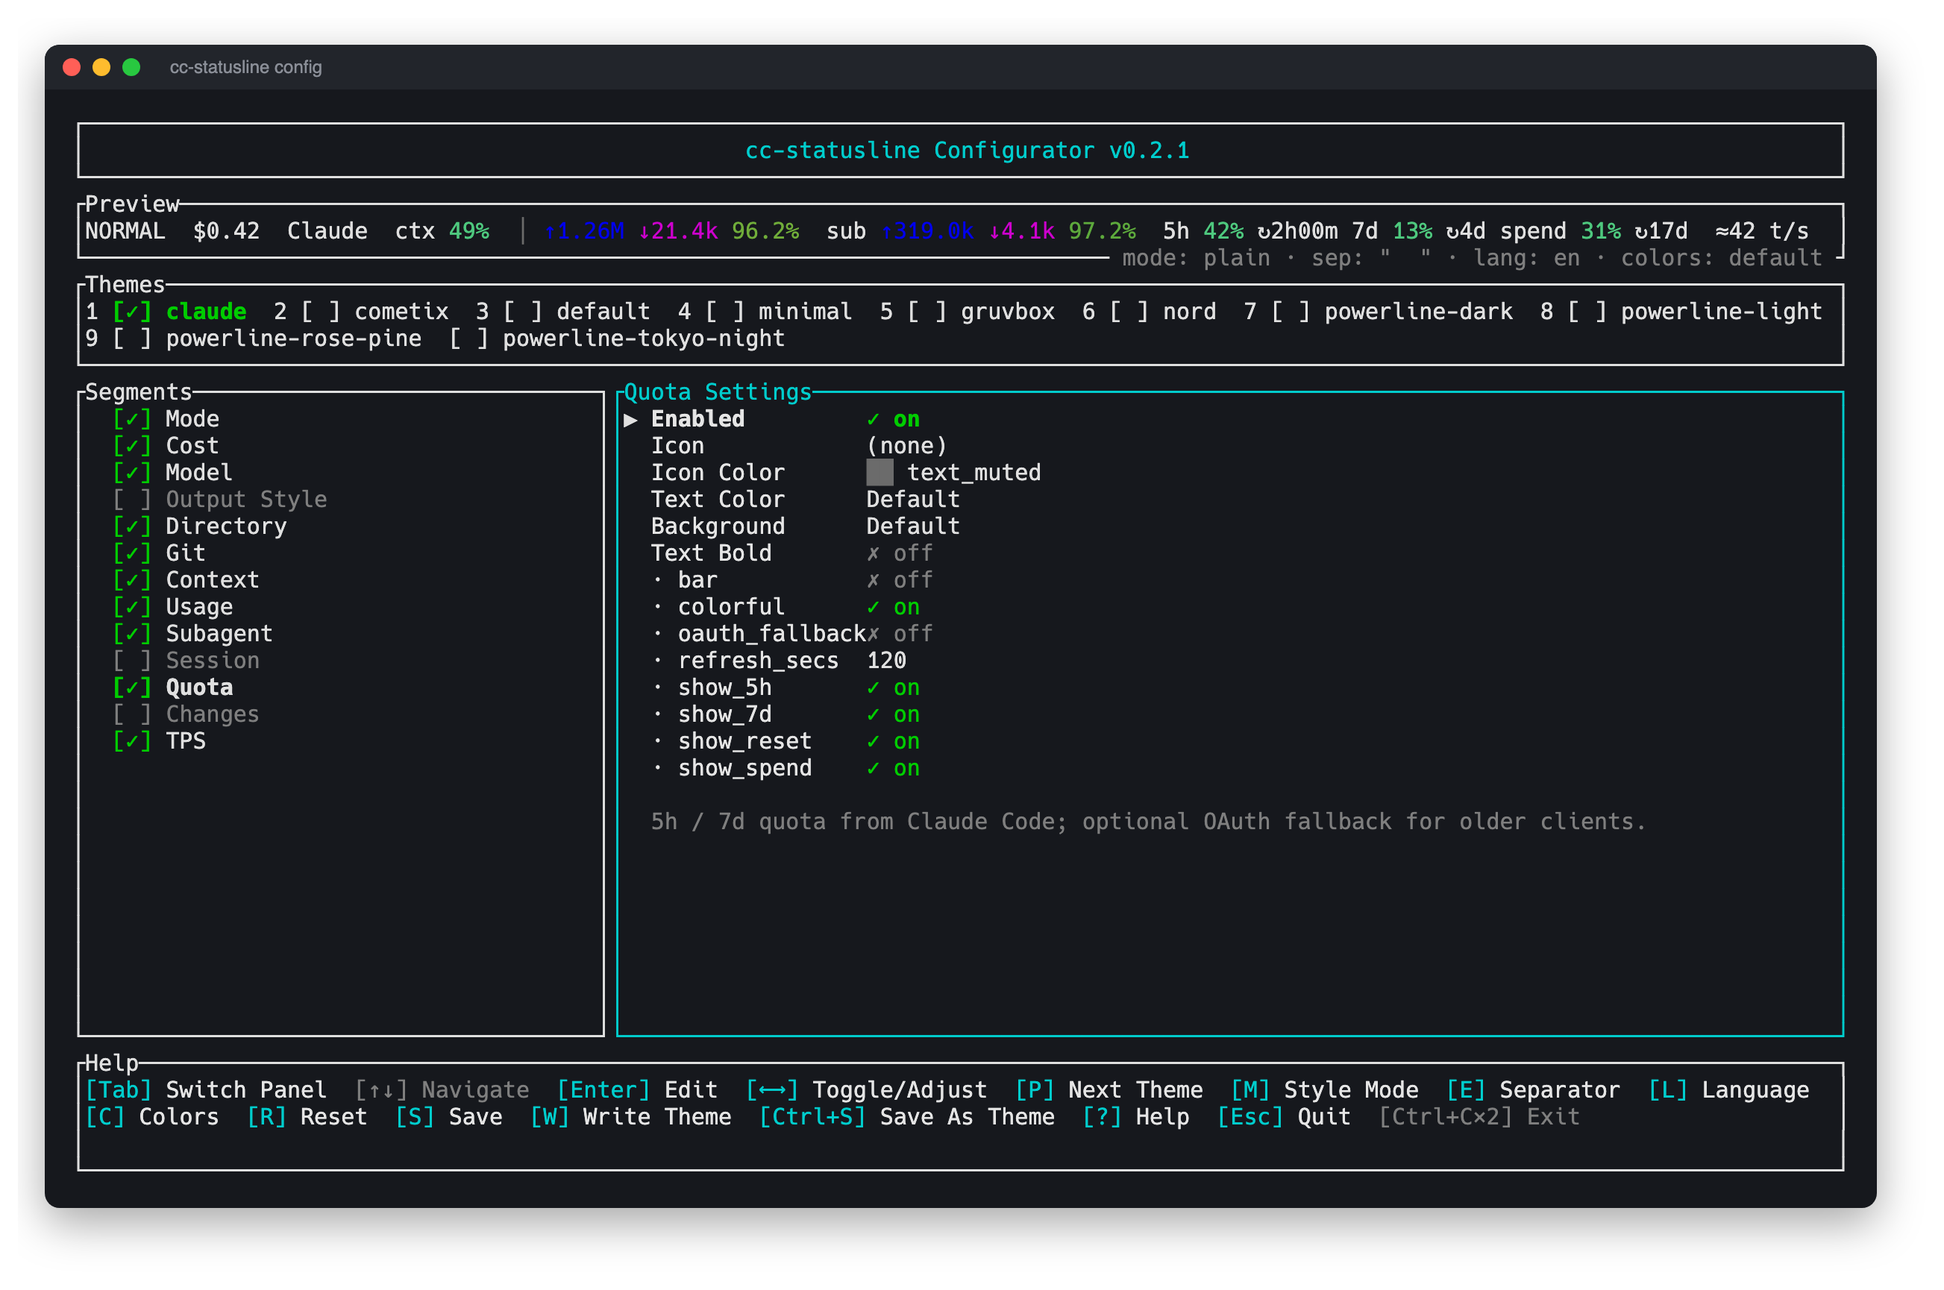
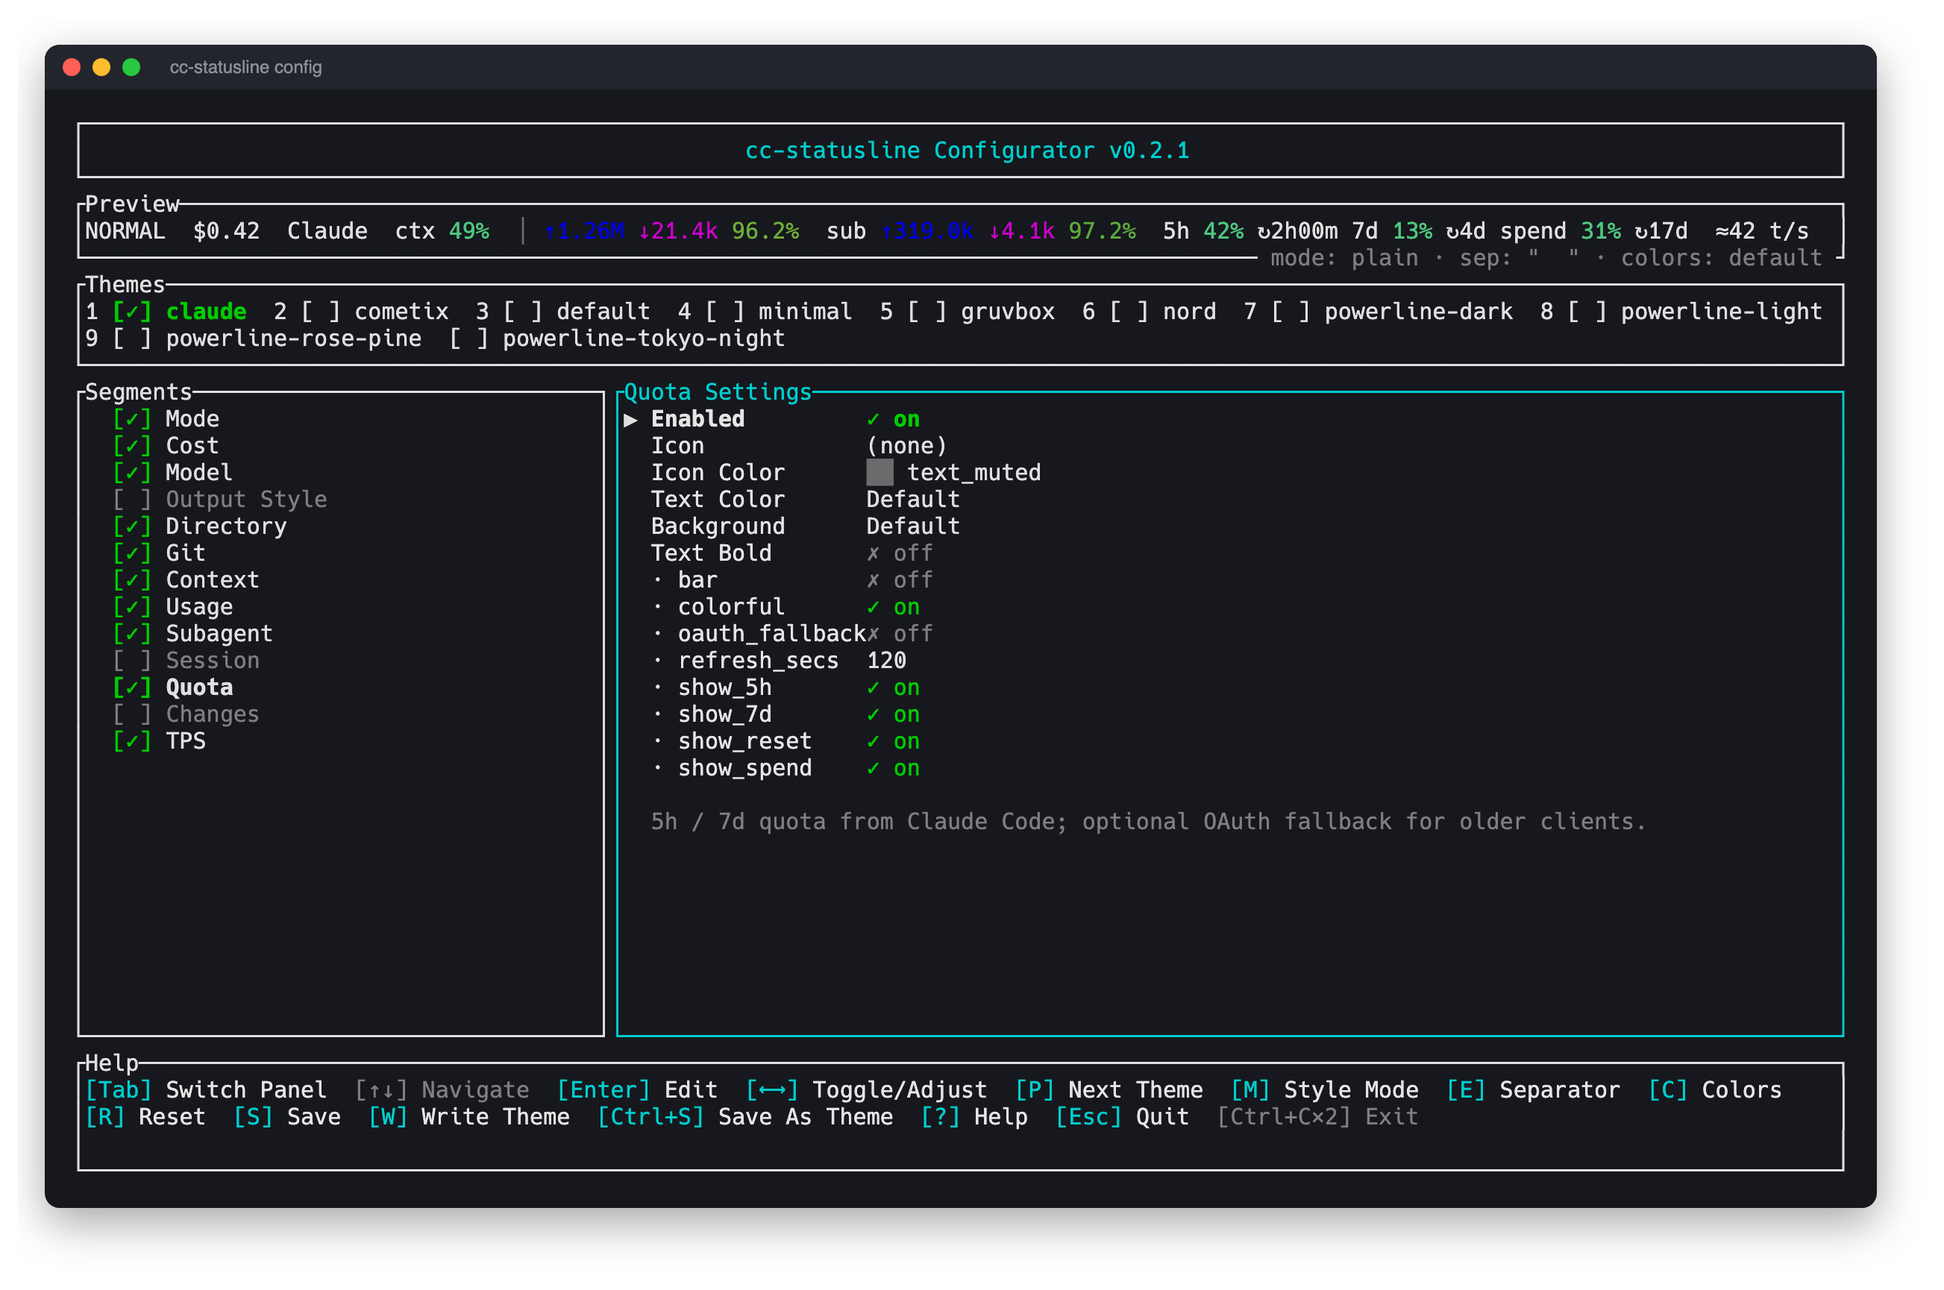
refactor: drop the zh status line language
Labels are English only; the Chinese ones ran long. Old configs with
style.lang still load, the key is ignored.

diff --git a/src/render.rs b/src/render.rs
@@ -8,7 +8,7 @@
 //! would leave the rest of the line in the terminal's default foreground.
 
 use crate::appearance::{Models, Palette, Rgb};
-use crate::config::{AnsiColor, Config, Lang, SegmentConfig, SegmentId, StyleMode};
+use crate::config::{AnsiColor, Config, SegmentConfig, SegmentId, StyleMode};
 use crate::payload::Payload;
 use crate::probe::{GitStatus, PullRequest};
 use crate::session::{SessionStats, Usage};
@@ -73,10 +73,6 @@ fn rgb(Rgb(r, g, b): Rgb) -> AnsiColor {
 }
 
 impl Ctx {
-    fn zh(&self) -> bool {
-        self.config.style.lang == Lang::Zh
-    }
-
     fn sgr(&self, color: &AnsiColor, bg: bool) -> Option<String> {
         self.color.then(|| color.sgr(&self.palette, bg)).flatten()
     }
@@ -221,7 +217,6 @@ fn hyperlink(text: &str, url: &str) -> String {
 /// trims labels and units for narrow terminals.
 fn segment(ctx: &Ctx, seg: &SegmentConfig, compact: bool) -> Option<Vec<Span>> {
     let p = &ctx.payload;
-    let zh = ctx.zh();
     match seg.id {
         SegmentId::Mode => (!p.mode.is_empty()).then(|| vec![plain(&p.mode)]),
         SegmentId::Cost => p.cost_usd.map(|cost| vec![plain(format!("${cost:.2}"))]),
@@ -345,7 +340,7 @@ fn segment(ctx: &Ctx, seg: &SegmentConfig, compact: bool) -> Option<Vec<Span>> {
                 "success"
             };
             let color = seg.opt_bool("colorful", true).then(|| token(tok));
-            let mut spans = vec![plain(if zh { "上下文 " } else { "ctx " })];
+            let mut spans = vec![plain("ctx ")];
             if seg.opt_bool("bar", false) && !compact {
                 spans.push(meter(ratio, color.clone()));
             }
@@ -374,9 +369,9 @@ fn segment(ctx: &Ctx, seg: &SegmentConfig, compact: bool) -> Option<Vec<Span>> {
             }
             let mut spans = Vec::new();
             if !compact {
-                spans.push(plain(if zh { "总计 " } else { "total " }));
+                spans.push(plain("total "));
             }
-            spans.extend(usage_triple(ctx, seg, &st.total, compact));
+            spans.extend(usage_triple(seg, &st.total, compact));
             if st.state != crate::session::CollectionState::Complete {
                 spans.insert(0, plain("≈"));
                 for span in &mut spans {
@@ -396,14 +391,14 @@ fn segment(ctx: &Ctx, seg: &SegmentConfig, compact: bool) -> Option<Vec<Span>> {
                 return None;
             }
             models.sort_by(|(a, ua), (b, ub)| ub.input().cmp(&ua.input()).then_with(|| a.cmp(b)));
-            let mut spans = vec![plain(if zh { "子任务 " } else { "sub " })];
+            let mut spans = vec![plain("sub ")];
             if compact {
                 // Narrow lines keep the subagent total rather than one model.
                 let mut total = Usage::default();
                 for (_, u) in &models {
                     total.add(u);
                 }
-                spans.extend(usage_triple(ctx, seg, &total, compact));
+                spans.extend(usage_triple(seg, &total, compact));
             } else {
                 const LIMIT: usize = 2;
                 for (i, (model, u)) in models.iter().take(LIMIT).enumerate() {
@@ -411,15 +406,15 @@ fn segment(ctx: &Ctx, seg: &SegmentConfig, compact: bool) -> Option<Vec<Span>> {
                         spans.push(plain("; "));
                     }
                     spans.push(plain(format!("{} ", ctx.models.display(model))));
-                    spans.extend(usage_triple(ctx, seg, u, compact));
+                    spans.extend(usage_triple(seg, u, compact));
                 }
                 let more = models.len().saturating_sub(LIMIT);
                 if more > 0 {
                     spans.push(colored(
-                        match (zh, more) {
-                            (true, _) => format!(" +{more} 个模型"),
-                            (false, 1) => " +1 model".into(),
-                            (false, _) => format!(" +{more} models"),
+                        if more == 1 {
+                            " +1 model".into()
+                        } else {
+                            format!(" +{more} models")
                         },
                         token("text_muted"),
                     ));
@@ -444,7 +439,7 @@ fn segment(ctx: &Ctx, seg: &SegmentConfig, compact: bool) -> Option<Vec<Span>> {
     }
 }
 
-fn usage_triple(ctx: &Ctx, seg: &SegmentConfig, u: &Usage, compact: bool) -> Vec<Span> {
+fn usage_triple(seg: &SegmentConfig, u: &Usage, compact: bool) -> Vec<Span> {
     let colorful = seg.opt_bool("colorful", true);
     let pick = |c: AnsiColor| colorful.then_some(c);
     let mut spans = vec![
@@ -472,11 +467,7 @@ fn usage_triple(ctx: &Ctx, seg: &SegmentConfig, u: &Usage, compact: bool) -> Vec
     ];
     if seg.opt_bool("show_cache", true) {
         if let Some(r) = u.cache_rate() {
-            let label = match (compact, ctx.zh()) {
-                (true, _) => " ",
-                (false, true) => " 缓存 ",
-                (false, false) => " cache ",
-            };
+            let label = if compact { " " } else { " cache " };
             spans.push(Span {
                 text: format!("{label}{}", fmt_rate(r)),
                 color: pick(rgb(cache_color(r))),
@@ -493,15 +484,10 @@ fn usage_triple(ctx: &Ctx, seg: &SegmentConfig, u: &Usage, compact: bool) -> Vec
 /// out as a local weekday + time.
 fn quota_segment(ctx: &Ctx, seg: &SegmentConfig, compact: bool) -> Option<Vec<Span>> {
     let q = ctx.quota.as_ref()?;
-    let zh = ctx.zh();
     let windows = [
         ("5h", q.limit_5h.as_ref(), seg.opt_bool("show_5h", true)),
         ("7d", q.limit_7d.as_ref(), seg.opt_bool("show_7d", true)),
-        (
-            if zh { "限额" } else { "spend" },
-            q.spend.as_ref(),
-            seg.opt_bool("show_spend", true),
-        ),
+        ("spend", q.spend.as_ref(), seg.opt_bool("show_spend", true)),
     ];
     let colorful = seg.opt_bool("colorful", true);
     // reset times survive compaction: they are what the segment is for
@@ -540,7 +526,7 @@ fn quota_segment(ctx: &Ctx, seg: &SegmentConfig, compact: bool) -> Option<Vec<Sp
             if let Some(reset) = e
                 .reset_at
                 .as_deref()
-                .and_then(|r| fmt_reset(r, ctx.now, zh, compact))
+                .and_then(|r| fmt_reset(r, ctx.now, compact))
             {
                 spans.push(plain(format!(" ↻{reset}")));
             }
@@ -549,12 +535,12 @@ fn quota_segment(ctx: &Ctx, seg: &SegmentConfig, compact: bool) -> Option<Vec<Sp
     (!spans.is_empty()).then_some(spans)
 }
 
-fn fmt_reset(rfc3339: &str, now: f64, zh: bool, compact: bool) -> Option<String> {
+fn fmt_reset(rfc3339: &str, now: f64, compact: bool) -> Option<String> {
     use chrono::{DateTime, Local};
     let at = DateTime::parse_from_rfc3339(rfc3339).ok()?;
     let secs = at.timestamp() as f64 - now;
     if secs <= 0.0 {
-        return Some(if zh { "即将" } else { "now" }.into());
+        return Some("now".into());
     }
     if secs < 86_400.0 {
         let m = (secs / 60.0).ceil() as u64;
@@ -568,18 +554,7 @@ fn fmt_reset(rfc3339: &str, now: f64, zh: bool, compact: bool) -> Option<String>
         // "3d", "6d": the day count is enough when space is short
         return Some(format!("{}d", (secs / 86_400.0).round() as u64));
     }
-    let local = at.with_timezone(&Local);
-    Some(if zh {
-        const DAYS: [&str; 7] = ["周一", "周二", "周三", "周四", "周五", "周六", "周日"];
-        use chrono::Datelike;
-        format!(
-            "{} {}",
-            DAYS[local.weekday().num_days_from_monday() as usize],
-            local.format("%H:%M")
-        )
-    } else {
-        local.format("%a %H:%M").to_string()
-    })
+    Some(at.with_timezone(&Local).format("%a %H:%M").to_string())
 }
 
 // ---------------------------------------------------------------------------
@@ -1033,23 +1008,20 @@ mod tests {
             .unwrap()
             .timestamp() as f64;
         assert_eq!(
-            fmt_reset("2026-09-11T18:00:00Z", now, false, false).unwrap(),
+            fmt_reset("2026-09-11T18:00:00Z", now, false).unwrap(),
             "2h00m"
         );
         assert_eq!(
-            fmt_reset("2026-09-11T16:30:00Z", now, false, false).unwrap(),
+            fmt_reset("2026-09-11T16:30:00Z", now, false).unwrap(),
             "30m"
         );
         assert_eq!(
-            fmt_reset("2026-09-11T15:00:00Z", now, false, false).unwrap(),
+            fmt_reset("2026-09-11T15:00:00Z", now, false).unwrap(),
             "now"
         );
-        assert!(fmt_reset("2026-09-15T00:00:00Z", now, false, false)
+        assert!(fmt_reset("2026-09-15T00:00:00Z", now, false)
             .unwrap()
             .contains(':'));
-        assert_eq!(
-            fmt_reset("2026-09-15T00:00:00Z", now, false, true).unwrap(),
-            "3d"
-        );
+        assert_eq!(fmt_reset("2026-09-15T00:00:00Z", now, true).unwrap(), "3d");
     }
 }

diff --git a/src/tui/app.rs b/src/tui/app.rs
@@ -5,7 +5,7 @@ use super::pickers::{
     centered, to_ratatui, Click, ClickMap, ColorPicker, IconPicker, Outcome, SeparatorEditor,
 };
 use super::{button, button_bar, Button, Hits};
-use crate::config::{AnsiColor, Config, Lang, SegmentConfig, SegmentId, StyleMode};
+use crate::config::{AnsiColor, Config, SegmentConfig, SegmentId, StyleMode};
 use crate::quota::{Entry, Quota};
 use crate::render::Ctx;
 use crate::session::{SessionStats, Usage};
@@ -272,7 +272,6 @@ impl App {
 
     fn switch_theme(&mut self, name: &str) {
         let mut cfg = themes::get(name);
-        cfg.style.lang = self.config.style.lang;
         cfg.style.palette = self.config.style.palette.clone();
         // themes never set these; they belong to this install, not the look
         cfg.style.separator_color = self.config.style.separator_color.clone();
@@ -603,12 +602,6 @@ impl App {
                 }
                 self.status = Some(format!("Style mode: {}", self.config.style.mode.name()));
             }
-            KeyCode::Char('l') | KeyCode::Char('L') => {
-                self.config.style.lang = match self.config.style.lang {
-                    Lang::En => Lang::Zh,
-                    Lang::Zh => Lang::En,
-                };
-            }
             KeyCode::Char('c') | KeyCode::Char('C') => {
                 self.config.style.palette = match self.config.style.palette.as_str() {
                     "" => "dark",
@@ -859,16 +852,6 @@ impl App {
         let parts = [
             (format!("mode: {}", self.config.style.mode.name()), 'm'),
             (format!("sep: {:?}", self.config.style.separator), 'e'),
-            (
-                format!(
-                    "lang: {}",
-                    match self.config.style.lang {
-                        Lang::En => "en",
-                        Lang::Zh => "zh",
-                    }
-                ),
-                'l',
-            ),
             (
                 format!(
                     "colors: {}",
@@ -1318,7 +1301,6 @@ fn help_buttons(panel: Panel) -> Vec<Button> {
         button("P", "Next Theme", k('p')),
         button("M", "Style Mode", k('m')),
         button("E", "Separator", k('e')),
-        button("L", "Language", k('l')),
         button("C", "Colors", k('c')),
         button("R", "Reset", k('r')),
         button("S", "Save", k('s')),
@@ -1371,12 +1353,12 @@ const HELP: &str = "\
    click [✓]        show / hide a segment directly
    drag a segment   move it to a new position (live preview)
    wheel            scroll the list under the pointer
-   bottom bar, mode/sep/lang/colors in the preview border are buttons
+   bottom bar, mode/sep/colors in the preview border are buttons
 
  Anywhere
    1-9 / P          pick / cycle theme      R  reset theme
    M                plain → nerd_font → powerline
-   E                separator               L  language en/zh
+   E                separator
    C                colors: default → dark → light
    S                save config.toml        W  write current theme
    Ctrl+S           save as a new theme     Esc quit

diff --git a/src/subagent.rs b/src/subagent.rs
@@ -3,7 +3,7 @@
 //! Rows degrade by dropping fields, never by cutting the context share off.
 use crate::{
     appearance::{self, Models, Palette},
-    config::{AnsiColor, Config, Lang},
+    config::{AnsiColor, Config},
     payload::{self, Payload},
     render, session, tps,
 };
@@ -25,7 +25,6 @@ struct Row {
 struct Style {
     palette: Palette,
     color: bool,
-    zh: bool,
     now: f64,
 }
 
@@ -70,7 +69,7 @@ impl Row {
     /// field; the name is cut only in the last layout.
     fn layouts(&self, s: &Style) -> Vec<String> {
         let sep = s.paint(" · ", "text_muted", false);
-        let label = if s.zh { "上下文 " } else { "ctx " };
+        let label = "ctx ";
         let tps = self.tps.filter(|_| self.running).map(|e| {
             let idle = s.now - e.measured_at > 60.0;
             s.paint(&format!("≈{:.0} t/s", e.tokens_per_sec), "accent", idle)
@@ -176,7 +175,6 @@ pub fn render_rows(bytes: &[u8], config: &Config, width: Option<usize>) -> Vec<S
         ),
         color: std::env::var_os("CC_STATUSLINE_NO_COLOR").is_none()
             && std::env::var_os("NO_COLOR").is_none(),
-        zh: config.style.lang == Lang::Zh,
         now,
     };
     let rows: Vec<(&str, Row)> = tasks

diff --git a/src/themes.rs b/src/themes.rs
@@ -1,8 +1,8 @@
 //! Built-in themes adapted from kimi-statusline and CCometixLine.
 
 use crate::config::{
-    themes_dir, AnsiColor, ColorConfig, Config, IconConfig, Lang, SegmentConfig, SegmentId,
-    StyleConfig, StyleMode, TextStyleConfig,
+    themes_dir, AnsiColor, ColorConfig, Config, IconConfig, SegmentConfig, SegmentId, StyleConfig,
+    StyleMode, TextStyleConfig,
 };
 use std::collections::BTreeMap;
 
@@ -168,7 +168,6 @@ fn build(
             mode,
             separator: separator.into(),
             separator_color: None,
-            lang: Lang::En,
             palette: String::new(),
             width: 0,
         },
@@ -497,6 +496,12 @@ pub fn list() -> Vec<String> {
 #[cfg(test)]
 mod tests {
     use super::*;
+
+    #[test]
+    fn configs_with_the_removed_lang_key_still_load() {
+        let cfg: Config = toml::from_str("[style]\nlang = \"zh\"\nwidth = 90\n").unwrap();
+        assert_eq!(cfg.style.width, 90);
+    }
 
     #[test]
     fn old_configs_gain_new_segments_disabled() {

diff --git a/src/config.rs b/src/config.rs
@@ -29,7 +29,6 @@ pub struct StyleConfig {
     pub separator: String,
     /// Color of the separator (powerline arrows take the segment colors).
     pub separator_color: Option<AnsiColor>,
-    pub lang: Lang,
     /// Palette for token colors: empty or dark, light, or a custom palette name.
     pub palette: String,
     /// Fixed render width; 0 detects the terminal.
@@ -42,7 +41,6 @@ impl Default for StyleConfig {
             mode: StyleMode::Plain,
             separator: "  ".into(),
             separator_color: None,
-            lang: Lang::En,
             palette: String::new(),
             width: 0,
         }
@@ -67,13 +65,6 @@ impl StyleMode {
             StyleMode::Powerline => "powerline",
         }
     }
-}
-
-#[derive(Debug, Clone, Copy, PartialEq, Eq, Serialize, Deserialize)]
-#[serde(rename_all = "snake_case")]
-pub enum Lang {
-    En,
-    Zh,
 }
 
 #[derive(Debug, Clone, Copy, PartialEq, Eq, Hash, Serialize, Deserialize)]

diff --git a/README.zh.md b/README.zh.md
@@ -109,7 +109,7 @@ cc-statusline 是单个 Rust 二进制。会话变长时，每次刷新仍限制
 | `output_style` | 输出风格（默认关闭） |
 | `directory` | 工作目录 |
 | `git` | 分支、改动统计、冲突、ahead/behind、打开的 PR（回退查询需要 `gh`） |
-| `context` | 主会话上下文占用百分比和输入 token / 容量（`上下文 62% · 620k/1M`）；`bar = true` 显示进度条 |
+| `context` | 主会话上下文占用百分比和输入 token / 容量（`ctx 62% · 620k/1M`）；`bar = true` 显示进度条 |
 | `usage` | 整个会话的输入 ↑ / 输出 ↓ / 缓存命中率，包含子 agent |
 | `subagent` | 子任务累计用量：输入最多的两个模型，其余显示 `+N 个模型`；紧凑模式显示子任务合计 |
 | `session` | 累计会话时长（默认关闭） |
@@ -119,7 +119,7 @@ cc-statusline 是单个 Rust 二进制。会话变长时，每次刷新仍限制
 
 空间不够时按这个顺序去掉：session → changes → git → directory → subagent → tps → output_style → cost → context → quota → mode。
 
-“上下文”统计主会话的输入、缓存读取和写入，不含输出；优先使用 Claude 原生百分比。各子任务拥有独立上下文，不累加到这个百分比。“子任务”段按模型汇总累计用量，包含已完成任务；紧凑模式只显示输入最多的一个模型和其余模型数量。会话累计用量只读取明确传入的 transcript 及其相邻子 agent 日志，按消息 ID 去重；不完整的用量以 `≈` 标记并变暗。缺失会话不会继承其他会话的统计。额度属于账号，可以跨会话保留。
+`ctx` 统计主会话的输入、缓存读取和写入，不含输出；优先使用 Claude 原生百分比。各子任务拥有独立上下文，不累加到这个百分比。`sub` 段按模型汇总累计用量，包含已完成任务；紧凑模式只显示输入最多的一个模型和其余模型数量。会话累计用量只读取明确传入的 transcript 及其相邻子 agent 日志，按消息 ID 去重；不完整的用量以 `≈` 标记并变暗。缺失会话不会继承其他会话的统计。额度属于账号，可以跨会话保留。
 
 预览和配置器使用当前目录最近收到的状态栏数据。`preview --session ID` 只接受匹配的缓存会话。还没有数据时，预览显示通用 Claude 标签，配置器会为缺失字段补上演示值。
 
@@ -154,7 +154,6 @@ theme = "claude"
 [style]
 mode = "plain"          # plain | nerd_font | powerline
 separator = "  "        # "" 为 powerline 箭头
-lang = "zh"             # 或 "en"
 palette = "dark"        # dark | light | 自定义配色名
 width = 0              # 自动检测；--width 优先
 

diff --git a/README.md b/README.md
@@ -154,7 +154,6 @@ theme = "claude"
 [style]
 mode = "plain"          # plain | nerd_font | powerline
 separator = "  "        # "" for powerline arrows
-lang = "en"             # or "zh"
 palette = "dark"        # dark | light | custom palette name
 width = 0              # auto-detect; --width overrides this
 
